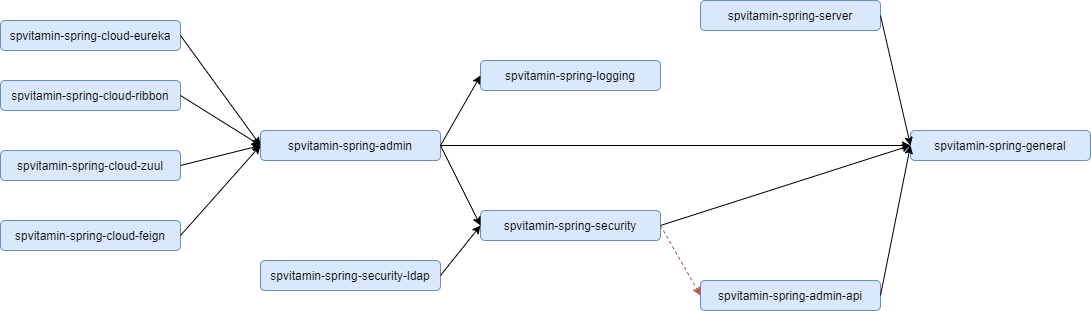
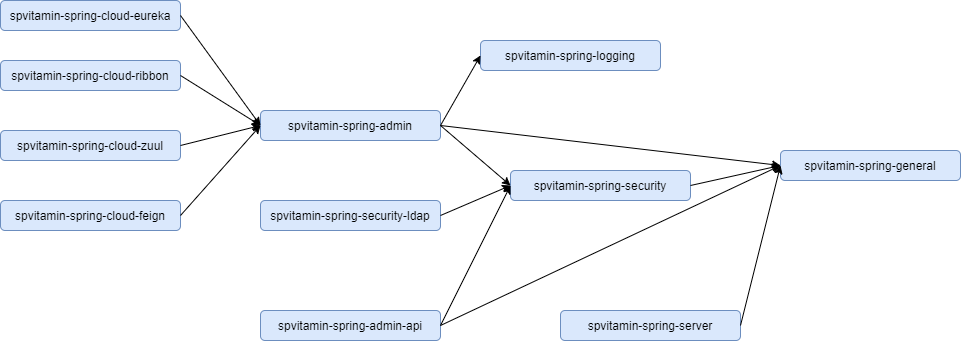
some parts were moved from security -> admin-api

diff --git a/spvitamin-spring-admin-api/src/main/java/hu/perit/spvitamin/spring/security/auth/authservice/filter/AuthServiceAuthenticationFilter.java b/spvitamin-spring-admin-api/src/main/java/hu/perit/spvitamin/spring/security/auth/authservice/filter/AuthServiceAuthenticationFilter.java
@@ -14,7 +14,7 @@
  * limitations under the License.
  */
 
-package hu.perit.spvitamin.spring.security.auth.filter.authservice;
+package hu.perit.spvitamin.spring.security.auth.authservice.filter;
 
 import javax.servlet.http.HttpServletRequest;
 
@@ -24,8 +24,8 @@ import hu.perit.spvitamin.spring.auth.AuthorizationToken;
 import hu.perit.spvitamin.spring.feignclients.ForwardingAuthRequestInterceptor;
 import hu.perit.spvitamin.spring.feignclients.SimpleFeignClientBuilder;
 import hu.perit.spvitamin.spring.rest.client.AuthClient;
+import hu.perit.spvitamin.spring.security.auth.authservice.provider.AuthServiceAuthenticationProviderWithFeign;
 import hu.perit.spvitamin.spring.security.auth.filter.AbstractTokenAuthenticationFilter;
-import hu.perit.spvitamin.spring.security.auth.provider.authservice.AuthServiceAuthenticationProviderWithFeign;
 
 /**
  * An alternative way of using AuthServiceAuthentication

diff --git a/spvitamin-spring-admin-api/src/main/java/hu/perit/spvitamin/spring/security/auth/authservice/provider/AuthServiceAuthenticationException.java b/spvitamin-spring-admin-api/src/main/java/hu/perit/spvitamin/spring/security/auth/authservice/provider/AuthServiceAuthenticationException.java
@@ -14,17 +14,22 @@
  * limitations under the License.
  */
 
-package hu.perit.spvitamin.spring.security.auth.provider.authservice;
+package hu.perit.spvitamin.spring.security.auth.authservice.provider;
 
 import org.springframework.security.core.AuthenticationException;
 
-public class AuthServiceAuthenticationException extends AuthenticationException {
+@SuppressWarnings("serial")
+public class AuthServiceAuthenticationException extends AuthenticationException
+{
 
-    public AuthServiceAuthenticationException(String msg, Throwable t) {
-        super(msg, t);
-    }
+	public AuthServiceAuthenticationException(String msg, Throwable t)
+	{
+		super(msg, t);
+	}
 
-    public AuthServiceAuthenticationException(String msg) {
-        super(msg);
-    }
+
+	public AuthServiceAuthenticationException(String msg)
+	{
+		super(msg);
+	}
 }

diff --git a/spvitamin-spring-admin-api/src/main/java/hu/perit/spvitamin/spring/resttemplate/RestTemplateErrorHandler.java b/spvitamin-spring-admin-api/src/main/java/hu/perit/spvitamin/spring/resttemplate/RestTemplateErrorHandler.java
@@ -14,7 +14,7 @@
  * limitations under the License.
  */
 
-package hu.perit.spvitamin.spring.security.resttemplate;
+package hu.perit.spvitamin.spring.resttemplate;
 
 import hu.perit.spvitamin.core.exception.ServerException;
 import hu.perit.spvitamin.spring.exceptionhandler.RestExceptionResponse;

diff --git a/spvitamin-spring-admin-api/src/main/java/hu/perit/spvitamin/spring/security/auth/authservice/provider/AuthServiceAuthenticationProviderWithRestTemplate.java b/spvitamin-spring-admin-api/src/main/java/hu/perit/spvitamin/spring/security/auth/authservice/provider/AuthServiceAuthenticationProviderWithRestTemplate.java
@@ -14,7 +14,7 @@
  * limitations under the License.
  */
 
-package hu.perit.spvitamin.spring.security.auth.provider.authservice;
+package hu.perit.spvitamin.spring.security.auth.authservice.provider;
 
 import org.springframework.http.HttpEntity;
 import org.springframework.http.HttpHeaders;

diff --git a/spvitamin-spring-admin-api/src/main/java/hu/perit/spvitamin/spring/resttemplate/RestTemplateConfig.java b/spvitamin-spring-admin-api/src/main/java/hu/perit/spvitamin/spring/resttemplate/RestTemplateConfig.java
@@ -14,7 +14,7 @@
  * limitations under the License.
  */
 
-package hu.perit.spvitamin.spring.security.resttemplate;
+package hu.perit.spvitamin.spring.resttemplate;
 
 import org.springframework.cloud.client.loadbalancer.LoadBalanced;
 import org.springframework.context.annotation.Bean;

diff --git a/spvitamin-spring-admin-api/src/main/java/hu/perit/spvitamin/spring/security/auth/authservice/provider/AuthServiceAuthenticationProviderWithFeign.java b/spvitamin-spring-admin-api/src/main/java/hu/perit/spvitamin/spring/security/auth/authservice/provider/AuthServiceAuthenticationProviderWithFeign.java
@@ -14,7 +14,7 @@
  * limitations under the License.
  */
 
-package hu.perit.spvitamin.spring.security.auth.provider.authservice;
+package hu.perit.spvitamin.spring.security.auth.authservice.provider;
 
 import org.springframework.stereotype.Service;
 

diff --git a/spvitamin-spring-admin-api/src/main/java/hu/perit/spvitamin/spring/security/auth/authservice/provider/AuthServiceAuthenticationProvider.java b/spvitamin-spring-admin-api/src/main/java/hu/perit/spvitamin/spring/security/auth/authservice/provider/AuthServiceAuthenticationProvider.java
@@ -14,7 +14,7 @@
  * limitations under the License.
  */
 
-package hu.perit.spvitamin.spring.security.auth.provider.authservice;
+package hu.perit.spvitamin.spring.security.auth.authservice.provider;
 
 import java.util.Collection;
 
